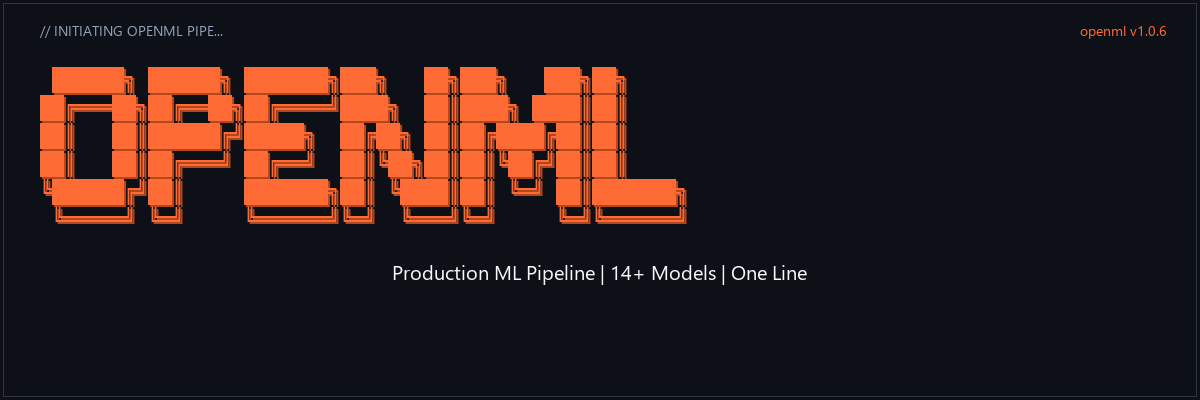
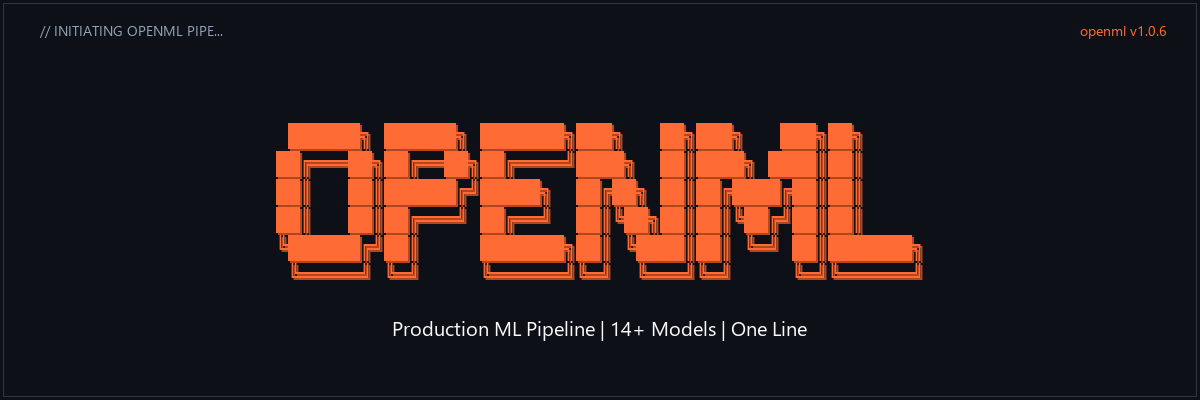
docs: center OPENML ASCII art, add terminal preview screenshots

Changed region(s): [[0.0308, 0.15, 0.7708, 0.72], [0.3083, 0.81, 0.6783, 0.84]]

diff --git a/scripts/generate_banner.py b/scripts/generate_banner.py
@@ -56,19 +56,41 @@ def generate_banner():
     draw.text((padding, padding - 20), "// INITIATING OPENML PIPE...", fill=(148, 163, 184), font=font_label)
     draw.text((width - padding - 80, padding - 20), "openml v1.0.6", fill=ACCENT_COLOR, font=font_label)
 
-    # Draw ASCII art
-    y = padding + 30
+    # Center the ASCII art vertically and horizontally
+    # Calculate total ASCII art height
+    line_height = 28
+    total_art_height = len(ascii_art) * line_height
+
+    # Calculate total content height (art + subtitle)
+    subtitle_height = 30
+    total_content_height = total_art_height + 20 + subtitle_height
+
+    # Center vertically within the available space (below top labels, above bottom)
+    art_start_y = padding + 30 + (height - padding - 30 - total_art_height - 50) // 2
+
+    # Find the widest line of ASCII art for horizontal centering
+    max_art_width = 0
+    for line in ascii_art:
+        bbox = draw.textbbox((0, 0), line, font=font_art)
+        line_width = bbox[2] - bbox[0]
+        if line_width > max_art_width:
+            max_art_width = line_width
+
+    # Center horizontally
+    art_start_x = (width - max_art_width) // 2
+
+    # Draw ASCII art centered
+    y = art_start_y
     for line in ascii_art:
         # Shadow effect — offset darker version
-        draw.text((padding + 2, y + 2), line, fill=BANNER_SHADOW, font=font_art)
+        draw.text((art_start_x + 2, y + 2), line, fill=BANNER_SHADOW, font=font_art)
         # Main text
-        draw.text((padding, y), line, fill=BANNER_COLOR, font=font_art)
-        y += 28
+        draw.text((art_start_x, y), line, fill=BANNER_COLOR, font=font_art)
+        y += line_height
 
-    # Draw subtitle (like AIDEN: "Autonomous AI Engine" → "Production ML Pipeline")
+    # Draw subtitle centered below ASCII art
     y += 20
     for line in subtitle_lines:
-        # Center the subtitle
         bbox = draw.textbbox((0, 0), line, font=font_sub)
         text_width = bbox[2] - bbox[0]
         x = (width - text_width) // 2

diff --git a/README.md b/README.md
@@ -114,7 +114,13 @@ Raw CSV → Load → EDA → Clean → Feature Eng → Split → Preprocess
 
 ## Terminal preview
 
-> 🎥 [Watch the CLI demo](docs/assets/openml-demo.mp4)
+### Interactive mode — run a pipeline
+
+https://github.com/user-attachments/assets/openml-demo.mp4
+
+### Pipeline output — model comparison + save
+
+<img width="1672" height="941" alt="openml pipeline output" src="docs/assets/openml-terminal-output.png" />
 
 
 ```